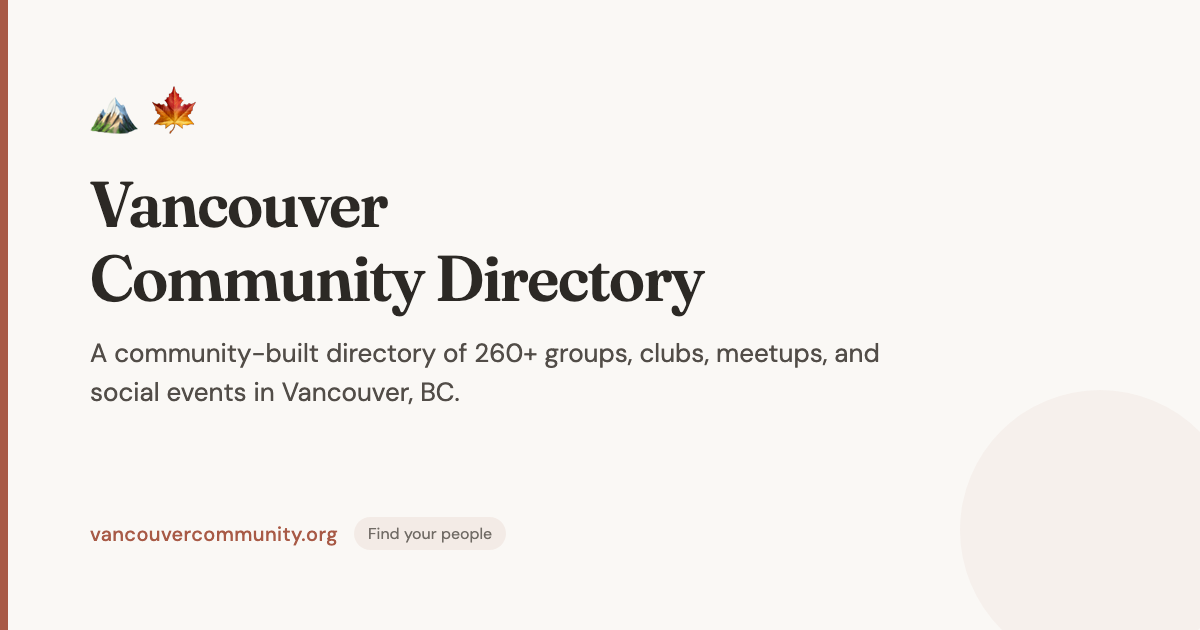
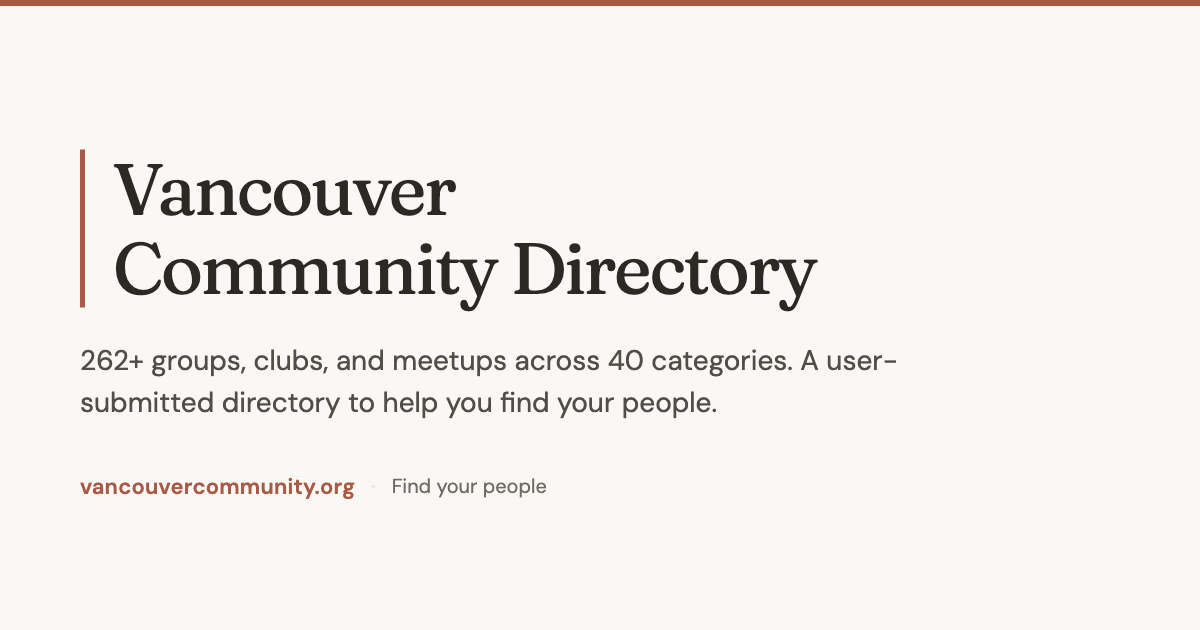
New OG image, feedback toast on every click, hero copy, fixes
- Replace OG social image: no emojis, large serif title, warm palette
- Show feedback toast on every outbound link click (not once per session)
- Update toast copy: "Anything wrong with X?" with generic issue reporting
- Add hero explainer: "A user-submitted directory..."
- Fix We Should Be Friends text (remove viral hangout mention, italic wrap)

diff --git a/src/main.js b/src/main.js
@@ -224,8 +224,6 @@ document.addEventListener('DOMContentLoaded', function() {
 
   // --- Outbound link verification toast ---
 
-  var _verifiedGroups = {};
-
   document.addEventListener('click', function(e) {
     var link = e.target.closest('.content a[href^="http"]');
     if (!link) return;
@@ -246,14 +244,11 @@ document.addEventListener('DOMContentLoaded', function() {
     }
     if (!groupName) return;
 
-    // Don't show if already verified this group in this session
-    if (_verifiedGroups[groupName]) return;
-
     // Open link in new tab so user stays on page
     e.preventDefault();
     window.open(link.href, '_blank', 'noopener');
 
-    // Show toast after a short delay
+    // Show feedback toast after a short delay
     var category = window.location.pathname.replace(/^\/|\/$/g, '');
     setTimeout(function() {
       showVerifyToast(groupName, link.href, category);
@@ -270,14 +265,15 @@ document.addEventListener('DOMContentLoaded', function() {
     toast.className = 'verify-toast';
     toast.innerHTML =
       '<div class="verify-toast-inner">' +
-        '<p class="verify-toast-question">Is <strong>' + groupName + '</strong> still active?</p>' +
+        '<p class="verify-toast-question">Anything wrong with <strong>' + groupName + '</strong>?</p>' +
+        '<p class="verify-toast-subtitle">Dead link, wrong info, closed group — anything helps.</p>' +
         '<div class="verify-toast-actions">' +
           '<button class="verify-btn verify-btn-yes" data-status="active">Looks good</button>' +
-          '<button class="verify-btn verify-btn-no" data-status="issue">Something\'s wrong</button>' +
+          '<button class="verify-btn verify-btn-no" data-status="issue">Report an issue</button>' +
           '<button class="verify-btn verify-btn-dismiss" aria-label="Dismiss">&times;</button>' +
         '</div>' +
         '<div class="verify-toast-detail" style="display:none">' +
-          '<input type="text" class="verify-detail-input" placeholder="What\'s wrong? (e.g. link is broken, group shut down)">' +
+          '<input type="text" class="verify-detail-input" placeholder="e.g. link is broken, wrong meeting time, group shut down">' +
           '<button class="verify-btn verify-btn-send">Send</button>' +
         '</div>' +
       '</div>';
@@ -301,7 +297,6 @@ document.addEventListener('DOMContentLoaded', function() {
 
     // "Looks good" — quick positive signal
     toast.querySelector('.verify-btn-yes').addEventListener('click', function() {
-      _verifiedGroups[groupName] = true;
       sendVerification(groupName, url, category, 'active', '');
       showToastThanks(toast);
     });
@@ -318,7 +313,6 @@ document.addEventListener('DOMContentLoaded', function() {
       var input = toast.querySelector('.verify-detail-input');
       var detail = input.value.trim();
       if (!detail) { input.focus(); return; }
-      _verifiedGroups[groupName] = true;
       sendVerification(groupName, url, category, 'issue', detail);
       showToastThanks(toast);
     });

diff --git a/src/style.css b/src/style.css
@@ -858,6 +858,11 @@ textarea.form-input { resize: vertical; }
 .verify-toast-question strong {
   color: var(--text);
 }
+.verify-toast-subtitle {
+  font-size: 0.85em;
+  color: var(--text-muted);
+  margin-bottom: 14px;
+}
 .verify-toast-actions {
   display: flex;
   gap: 8px;

diff --git a/content/social-friend-clubs.md b/content/social-friend-clubs.md
@@ -11,7 +11,7 @@ order: 2
 # 🤝 Social / Friend Clubs
 
 ## We Should Be Friends
-- **What:** Park hangs, pottery nights, spin classes, neighbourhood book clubs — started with a viral 300-person Kits Beach hangout. Explicitly focused on *lasting* friendships, not one-night connections
+- **What:** Park hangs, pottery nights, spin classes, neighbourhood book clubs. Focused on lasting friendships, not one-night connections
 - **Find it:** [@weshouldbefriendsvancouver](https://instagram.com/weshouldbefriendsvancouver)
 
 ## Maude Sips
